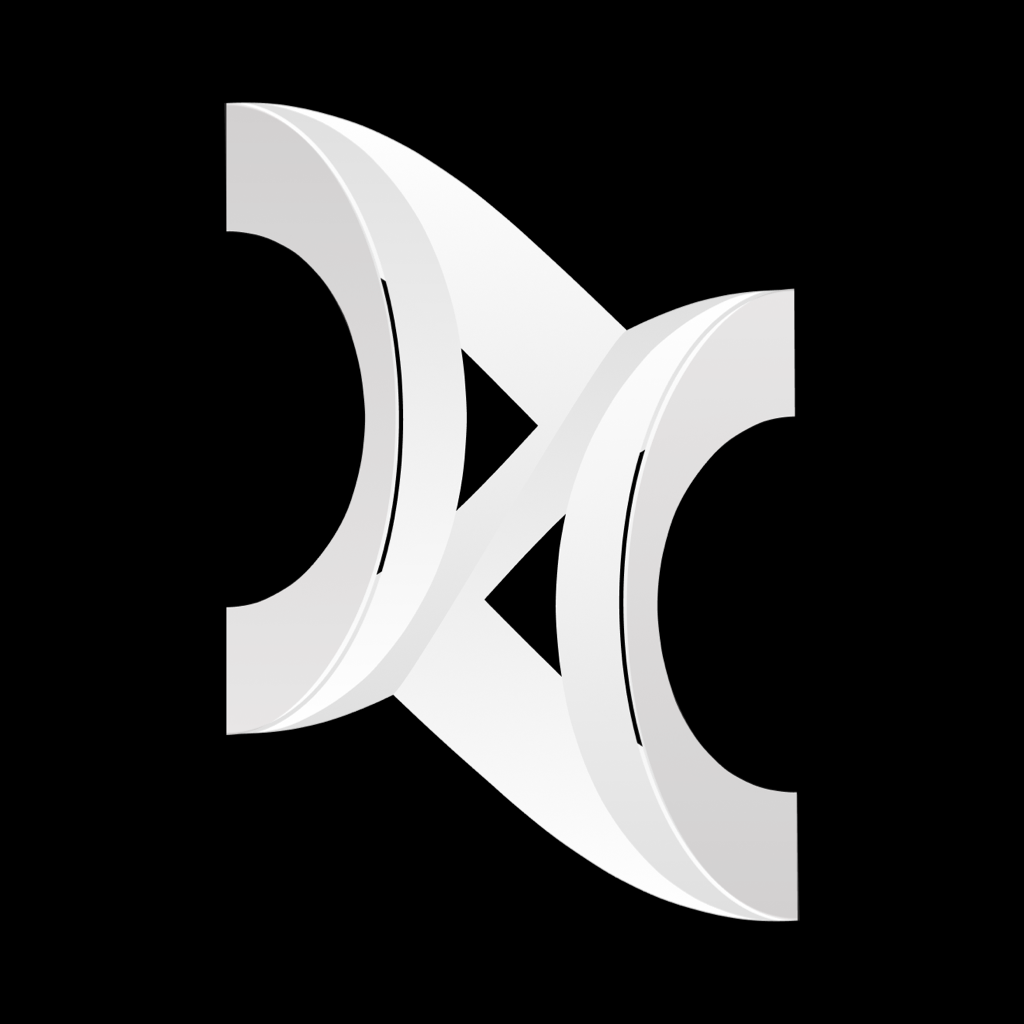
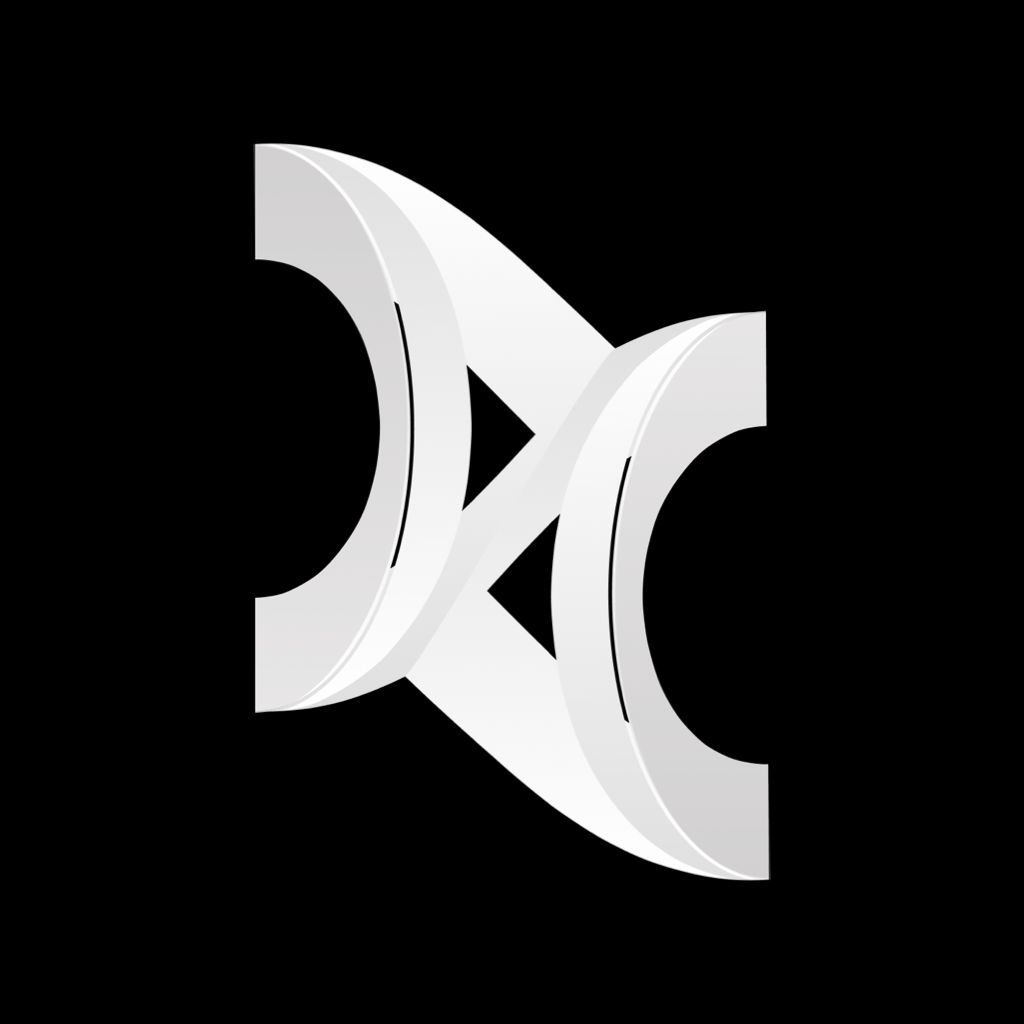
fix(earnings): retire cost basis when the held asset is transferred out (#274)
* fix(earnings): retire cost basis when the held asset is transferred out

A wallet that had sent part of a position to another address showed a
phantom loss: yield read -$7.51 on a position the owner had put ~$50 into
the day before.

The engine attributed cost per transaction — "held asset moved, so subtract
this tx's cost-token delta". A plain transfer out has no cost-token leg, so
it subtracted 0: the units left the wallet but the money attributed to them
stayed on the books, and the shrunken position was measured against the full
original basis. Confirmed on-chain — one transaction moved only jlUSDC, -6.196373,
with no counter-leg at all:

  bS9pGSL6mLJJQEwgJ8vfewmRaLK721N6UvbrsGvEv85EDs7xn2Zd1BkeT6GjWzokgsSpPhyWj5E1MEmmon7esnB

So walk the history oldest-first and carry units alongside the money. A sale
still nets its proceeds off; a transfer out now retires its pro-rata share of
the basis. Replaying that wallet's full jlUSDC history:

  before  invested 56.28  →  -4.52 shown
  after   invested 51.75  →  +0.007 shown

and the ledger's units land on 49.156579 — the wallet's actual jlUSDC balance.
$0.007 is what $50 at 5.12% APY earns in a day.

This is source-agnostic: every swap-and-hold asset (xStocks, gold, USDY,
Maple) was mispriced the same way after any Send.

* chore(mobile): dial the icon glyph back to a 14% inset

Between the 18% it shipped at and the 10% that followed — the mark read
slightly too large in the tile on device.

---------

diff --git a/web/src/lib/earnings/swaps.ts b/web/src/lib/earnings/swaps.ts
@@ -10,6 +10,13 @@
  * We read it straight from the chain (the wallet's parsed transfers), so it's true
  * to the cent and survives device changes — no self-tracking. `costMint` is assumed
  * to be ~$1 (USDC), so its UI amount IS the dollar cost.
+ *
+ * Sending the asset OUT with nothing coming back (a plain transfer to another wallet)
+ * is not a sale: it has no proceeds to subtract, but the units are gone, so the cost
+ * attributed to them has to leave with them. Charging it against the remaining
+ * position instead is what produced a phantom loss — a wallet that had sent some of
+ * its position away showed a negative yield on the part it still held. That is why
+ * this walks the history in order, tracking units alongside the money.
  */
 
 /** One token movement inside a Helius enhanced transaction (fields we read). */
@@ -22,6 +29,8 @@ export interface HeliusTokenTransfer {
 }
 
 export interface HeliusTx {
+  /** Unix seconds. Helius returns newest-first, so we sort on this. */
+  timestamp?: number;
   tokenTransfers?: HeliusTokenTransfer[];
 }
 
@@ -37,8 +46,14 @@ export function netInvestedFromSwaps(
   heldMint: string,
   costMint: string,
 ): number {
-  let net = 0;
-  for (const tx of txs) {
+  // Oldest first: a disposal can only be attributed against units acquired before it.
+  // Sort is stable, so txs without a timestamp keep their given order.
+  const ordered = [...txs].sort((a, b) => (a.timestamp ?? 0) - (b.timestamp ?? 0));
+
+  let units = 0; // held-asset units currently attributed
+  let basis = 0; // USD still invested in them
+
+  for (const tx of ordered) {
     let heldDelta = 0;
     let costDelta = 0;
     for (const t of tx.tokenTransfers ?? []) {
@@ -50,9 +65,28 @@ export function netInvestedFromSwaps(
       else if (t.mint === costMint) costDelta += sign * t.tokenAmount;
     }
     // Only when the held asset moved for the owner is this an acquire/dispose.
-    // costDelta < 0 (USDC left the wallet) → positive invested; > 0 (USDC came
-    // back from a sell) → reduces invested.
-    if (heldDelta !== 0) net += -costDelta;
+    if (heldDelta === 0) continue;
+
+    if (heldDelta > 0) {
+      // Acquire. costDelta < 0 means the cost token left the wallet to pay for it;
+      // a free receipt (no cost leg) adds units at zero cost.
+      units += heldDelta;
+      if (costDelta < 0) basis += -costDelta;
+      continue;
+    }
+
+    const sold = -heldDelta;
+    if (costDelta > 0) {
+      // Sale: proceeds came back, so they reduce what is still invested. Keeping the
+      // realized gain in this figure is deliberate — earned = value − netInvested then
+      // covers realized and unrealized alike.
+      basis -= costDelta;
+    } else if (units > 0) {
+      // Transfer out, no proceeds: retire the share of the basis that left with it.
+      basis -= basis * Math.min(1, sold / units);
+    }
+    units = Math.max(0, units - sold);
   }
-  return net;
+
+  return basis;
 }

diff --git a/web/src/lib/earnings/swaps.test.ts b/web/src/lib/earnings/swaps.test.ts
@@ -83,6 +83,44 @@ describe("netInvestedFromSwaps", () => {
     expect(netInvestedFromSwaps([deposit(5, 4.75), withdraw(2, 2)], OWNER, JL_USDC, USDC)).toBeCloseTo(3, 9);
   });
 
+  // Regression: a wallet that sent part of its position to another address showed a
+  // phantom loss, because the units left but the cost attributed to them stayed.
+  const sendOut = (usdy: number): HeliusTx => ({
+    tokenTransfers: [
+      { mint: USDY, fromUserAccount: OWNER, toUserAccount: "someone-else", tokenAmount: usdy },
+    ],
+  });
+
+  it("retires the basis of units transferred out with no proceeds", () => {
+    // Bought 10 units for $10, then gave half away → $5 still invested in the rest.
+    expect(netInvestedFromSwaps([buy(10, 10), sendOut(5)], OWNER, USDY, USDC)).toBeCloseTo(5, 9);
+  });
+
+  it("zeroes the basis when the whole position is sent away", () => {
+    expect(netInvestedFromSwaps([buy(10, 10), sendOut(10)], OWNER, USDY, USDC)).toBeCloseTo(0, 9);
+  });
+
+  it("never drives the basis negative when more is sent than we saw acquired", () => {
+    // History window can start mid-life, so a disposal may exceed the units we know of.
+    expect(netInvestedFromSwaps([buy(4, 4), sendOut(9)], OWNER, USDY, USDC)).toBeCloseTo(0, 9);
+    expect(netInvestedFromSwaps([sendOut(3)], OWNER, USDY, USDC)).toBe(0);
+  });
+
+  it("keeps a sale and a transfer-out distinct", () => {
+    // Sale returns money (basis −proceeds); a transfer returns nothing (basis pro-rata).
+    expect(netInvestedFromSwaps([buy(10, 10), sell(5, 6)], OWNER, USDY, USDC)).toBeCloseTo(4, 9);
+    expect(netInvestedFromSwaps([buy(10, 10), sendOut(5)], OWNER, USDY, USDC)).toBeCloseTo(5, 9);
+  });
+
+  it("orders by timestamp, since Helius returns newest-first", () => {
+    const newestFirst: HeliusTx[] = [
+      { ...sendOut(5), timestamp: 200 },
+      { ...buy(10, 10), timestamp: 100 },
+    ];
+    // Processed oldest-first the buy funds the units the send then retires → $5.
+    expect(netInvestedFromSwaps(newestFirst, OWNER, USDY, USDC)).toBeCloseTo(5, 9);
+  });
+
   it("attributes the jlUSDT market against USDT, not USDC", () => {
     const USDT = "Es9vMFrzaCERmJfrF4H2FYD4KCoNkY11McCe8BenwNYB";
     const JL_USDT = "Cmn4v2wipYV41dkakDvCgFJpxhtaaKt11NyWV8pjSE8A";
